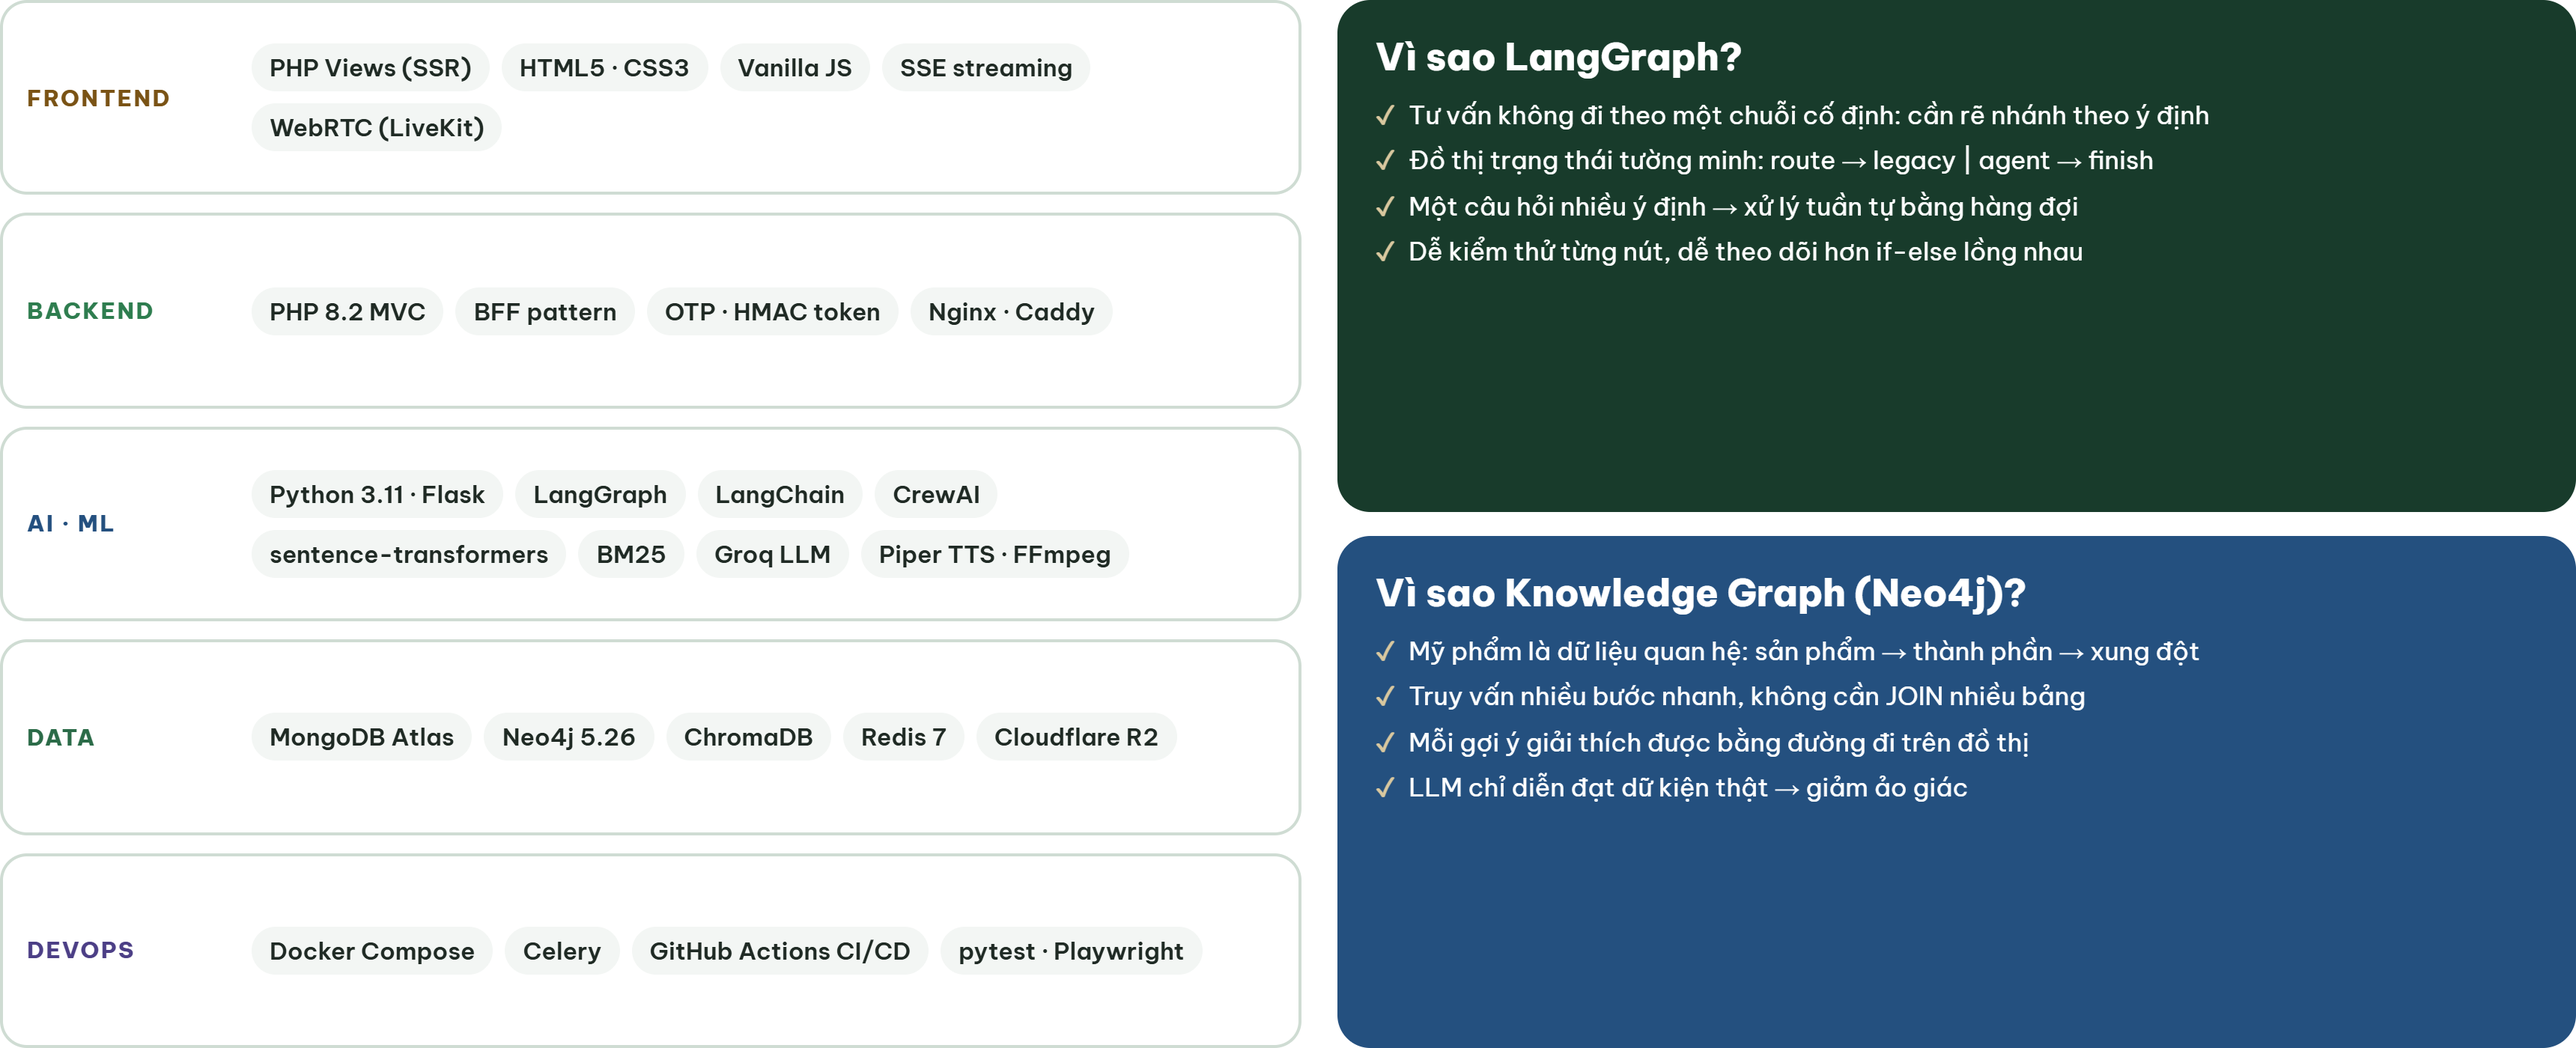
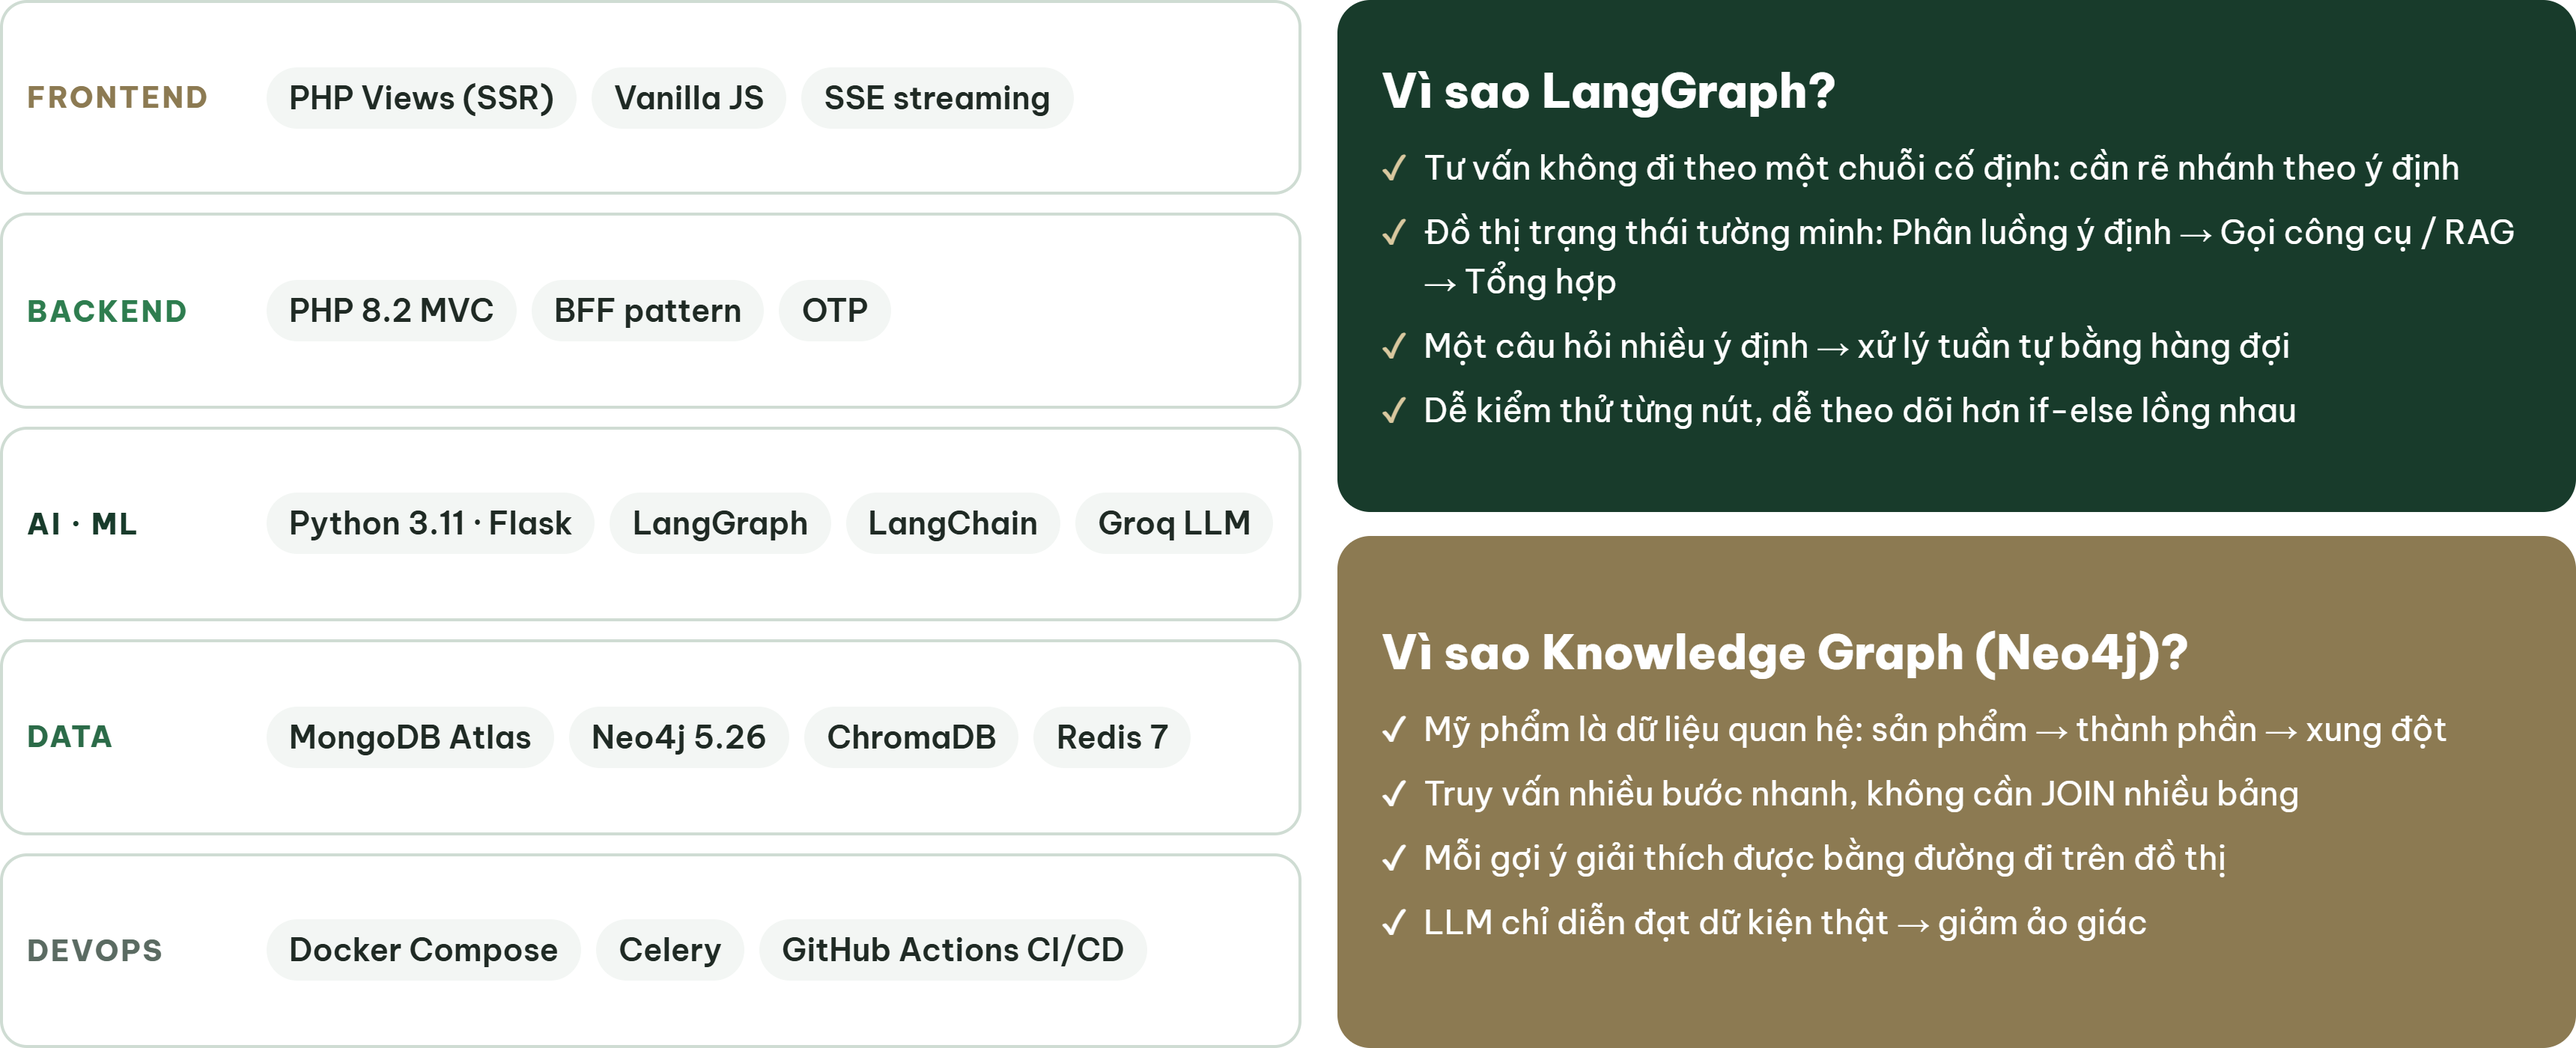
fix: preserve ingredient group ordering in Syna boards

diff --git a/backend/app/views/chitiet.php b/backend/app/views/chitiet.php
@@ -598,6 +598,35 @@ $phanTramGiam = function_exists('product_discount_percent') ? product_discount_p
           return trim($value);
         };
 
+        $mergeIngredientLinesInsideParentheses = function ($text) {
+          $value = trim((string)$text);
+          if ($value === '') {
+            return '';
+          }
+
+          $lines = preg_split('/\n/u', $value) ?: [];
+          $merged = [];
+          $depth = 0;
+          foreach ($lines as $line) {
+            $line = trim((string)$line);
+            if ($line === '') {
+              continue;
+            }
+
+            if ($depth > 0 && $merged !== []) {
+              $line = preg_replace('/^(?:[-*•]|–)\s*/u', '', $line);
+              $merged[count($merged) - 1] .= ' ' . trim((string)$line);
+            } else {
+              $merged[] = $line;
+            }
+
+            $depth += substr_count($line, '(') - substr_count($line, ')');
+            $depth = max(0, $depth);
+          }
+
+          return implode("\n", $merged);
+        };
+
         $keepFirstProductBlockOnly = function ($text) {
           $value = trim((string)$text);
           if ($value === '') {
@@ -639,8 +668,8 @@ $phanTramGiam = function_exists('product_discount_percent') ? product_discount_p
         $thanhPhanDayDuRaw = $p['thanh_phan_day_du'] ?? ( ($p['thanh_phan_full'] ?? ''));
         $moTaRaw = $p['mo_ta'] ?? '';
 
-        $thanhPhanChinh = $sanitizeIngredientText($thanhPhanChinhRaw);
-        $thanhPhanDayDu = $sanitizeIngredientText($keepFirstFullIngredientOnly($thanhPhanDayDuRaw));
+        $thanhPhanChinh = $mergeIngredientLinesInsideParentheses($sanitizeIngredientText($thanhPhanChinhRaw));
+        $thanhPhanDayDu = $mergeIngredientLinesInsideParentheses($sanitizeIngredientText($keepFirstFullIngredientOnly($thanhPhanDayDuRaw)));
         $moTa = $sanitizeIngredientText($keepFirstProductBlockOnly($moTaRaw));
         $hdsd = $sanitizeIngredientText($p['hdsd'] ?? '');
 

diff --git a/ai-idol-service/engines/syna_engine.py b/ai-idol-service/engines/syna_engine.py
@@ -68,12 +68,32 @@ def ingredient_titles(value) -> list[str]:
     else:
         text = html.unescape(re.sub(r"<[^>]+>", "\n", str(value or "")))
         text = text.replace("\\r\\n", "\n").replace("\\n", "\n")
-        values = re.split(r"[\n•;]+", text)
-        if len(values) == 1 and ":" not in text:
-            values = text.split(",")
+        # Commas inside a parenthesized label are part of that label, e.g.
+        # ``3 loại Ceramides (1, 3, 6 II)``.  Splitting those commas creates
+        # fake rows and makes the board appear to reorder the source data.
+        separators = {"\n", "•", ";"}
+        if ":" not in text:
+            separators.add(",")
+        values = []
+        current = []
+        depth = 0
+        for char in text:
+            if char == "(":
+                depth += 1
+            elif char == ")":
+                depth = max(0, depth - 1)
+            if char == "•" and depth > 0:
+                current.append(" ")
+            elif char in separators and depth == 0:
+                values.append("".join(current))
+                current = []
+            else:
+                current.append(char)
+        values.append("".join(current))
     titles = []
     for item in values:
         title = re.sub(r"^[-*\s]+", "", item).split(":", 1)[0].strip()
+        title = re.sub(r"\s+", " ", title)
         if title and title.upper() not in {"UNKNOWN", "N/A", "NONE"} and title not in titles:
             titles.append(title[:160])
     return titles[:3]

diff --git a/ai-idol-service/tests/test_syna.py b/ai-idol-service/tests/test_syna.py
@@ -17,6 +17,10 @@ class SynaTests(unittest.TestCase):
     def test_ingredients_are_source_labels_not_invented_benefits(self):
         raw = '• 4% Niacinamide: giúp làm sáng da.\\r\\n• 0.15% Retinol nguyên chất: giúp tái tạo.'
         self.assertEqual(ingredient_titles(raw), ['4% Niacinamide', '0.15% Retinol nguyên chất'])
+        self.assertEqual(ingredient_titles('3 loại Ceramides (1, 3, 6 II), Hyaluronic Acid'),
+                         ['3 loại Ceramides (1, 3, 6 II)', 'Hyaluronic Acid'])
+        self.assertEqual(ingredient_titles('• 3 loại Ceramides (1, 3, 6\n• II): thiết yếu.\n• Hyaluronic Acid: cấp ẩm.'),
+                         ['3 loại Ceramides (1, 3, 6 II)', 'Hyaluronic Acid'])
         self.assertEqual(ingredient_titles('UNKNOWN'), [])
         self.assertEqual(ingredient_titles(None), [])
         self.assertEqual(ingredient_titles(['A', 'B', 'C', 'D']), ['A', 'B', 'C'])
